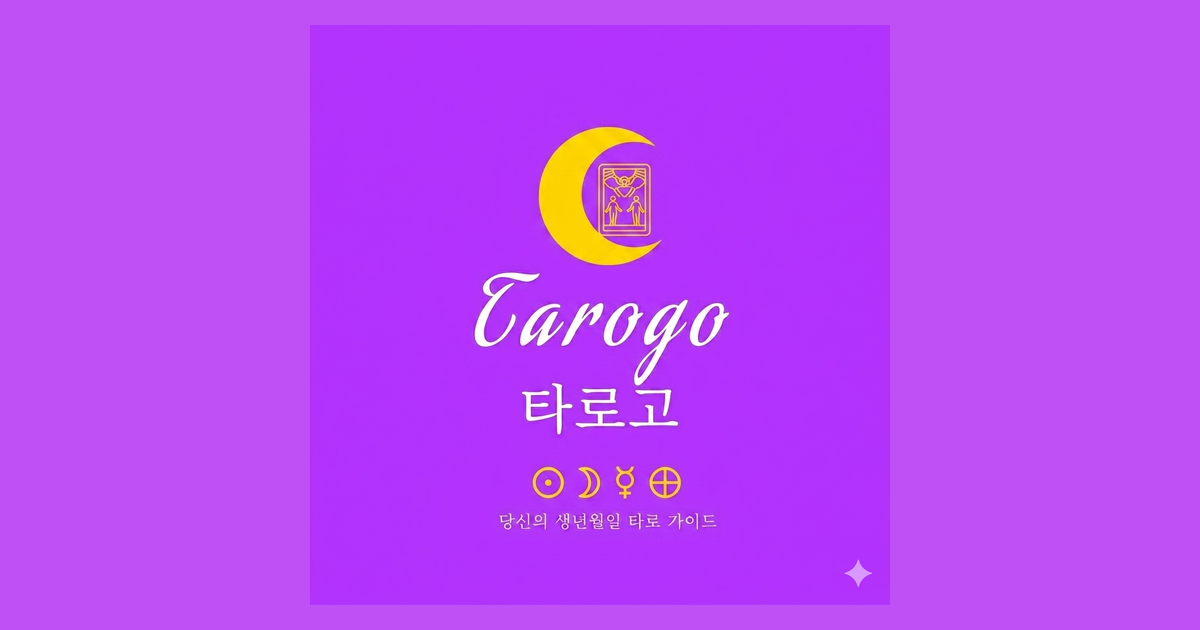
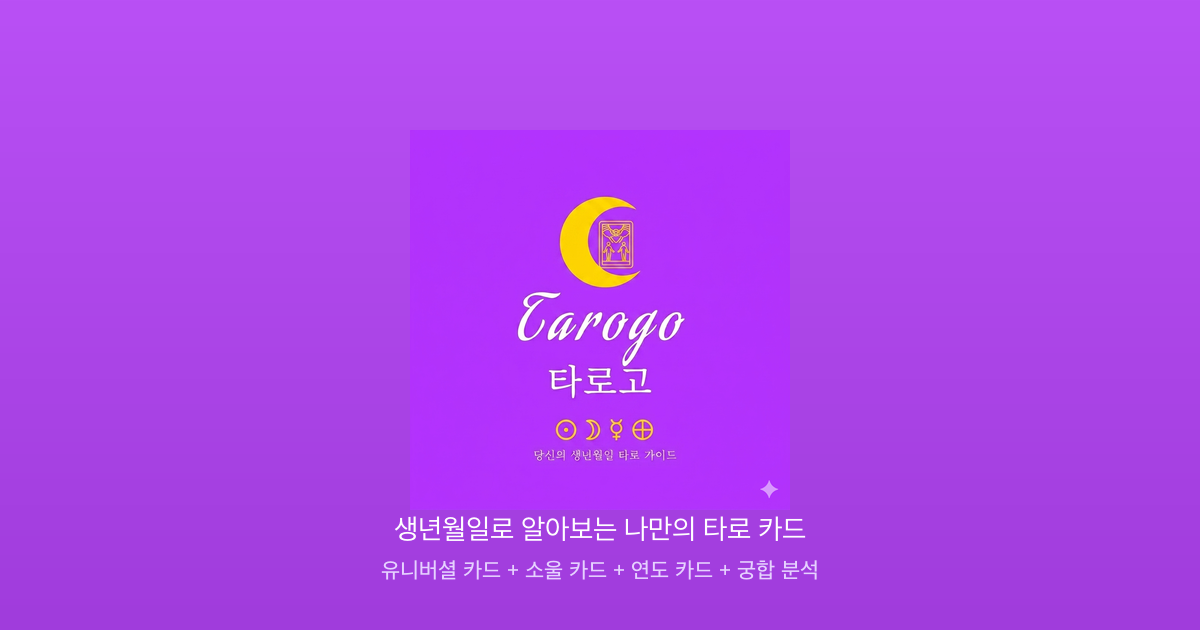
히어로 배너 이미지 적용 및 OG 이미지 업데이트

diff --git a/index.html b/index.html
@@ -110,8 +110,7 @@
   <div class="container">
     <!-- 헤더 -->
     <header class="header">
-      <h1><img src="assets/header-logo.png" alt="타로고" class="header-logo"> 타로고</h1>
-      <p class="subtitle">나의 운명 여행 - 생년월일로 알아보는 타로 카드</p>
+      <img src="assets/hero-banner.png" alt="타로고 - 생년월일로 알아보는 나만의 타로 카드" class="hero-banner">
     </header>
 
     <main>

diff --git a/src/style.css b/src/style.css
@@ -37,10 +37,18 @@ body {
 .header {
   text-align: center;
   margin-bottom: 40px;
-  padding: 40px 20px;
-  background: var(--card-bg);
+  padding: 0;
+  background: none;
   border-radius: 20px;
-  box-shadow: var(--shadow);
+  box-shadow: none;
+  overflow: hidden;
+}
+
+.hero-banner {
+  width: 100%;
+  height: auto;
+  display: block;
+  border-radius: 20px;
 }
 
 .header-logo {
